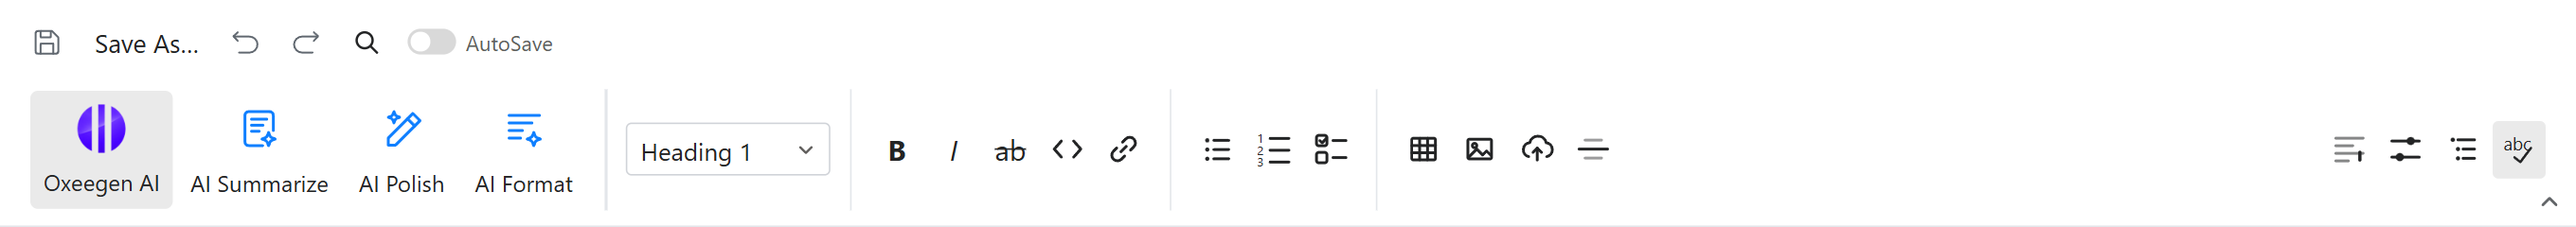
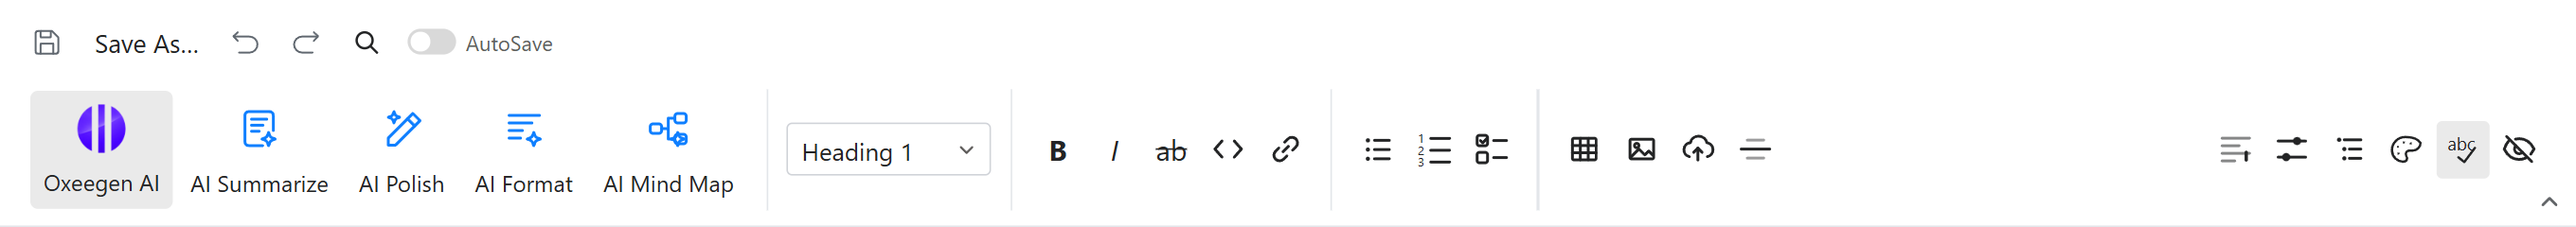
Brand layer for 0.11.727: manual pages, figures, usage request
- Manual (en, fr): Home page gains starred-file groups, .txt/.json and an
  "Ask your knowledge base" section (no Genspark sign-in); Settings page
  lists the new rerank endpoints; AI models page describes custom
  endpoint profiles.
- Figures: Markdown toolbar (AI Mind Map, themes, hide from AI), PDF
  toolbar (Certificate sign), AI panel and Word shortcuts regenerated.
- Oxeegen request test: streams now carry stream_options.include_usage
  (the new token usage chips); still no sampling field.

Changed region(s): [[0.25, 0.4958, 0.6875, 0.7292], [0.8438, 0.5833, 1.0, 0.7292], [0.2188, 0.7583, 0.375, 0.8458]]

diff --git a/packages/ai-provider/tests/oxeegen.test.ts b/packages/ai-provider/tests/oxeegen.test.ts
@@ -117,7 +117,9 @@ describe('request bodies: the server configuration decides', () => {
       expect(body).not.toHaveProperty('reasoning_effort')
       expect(body.model).toBe('Oxee-max')
     }
-    expect(Object.keys(bodies[0]!).sort()).toEqual(['messages', 'model', 'stream', 'tools'])
+    // streams ask for the token count only (the usage chips); no sampling field
+    expect(Object.keys(bodies[0]!).sort()).toEqual(['messages', 'model', 'stream', 'stream_options', 'tools'])
+    expect(bodies[0]!.stream_options).toEqual({ include_usage: true })
     expect(Object.keys(bodies[2]!).sort()).toEqual(['messages', 'model'])
   })
 

diff --git a/apps/shell/src/renderer/src/oxee-help/home-screen.fr.md b/apps/shell/src/renderer/src/oxee-help/home-screen.fr.md
@@ -7,13 +7,21 @@ Accueil est la page de démarrage de OxeeOffice : une barre de navigation à gau
 ## Navigation dans la barre latérale
 
 - **Récents** : les fichiers que vous avez ouverts récemment. Chaque ligne est datée — aujourd’hui, hier ou la date.
-- **Favoris** : les fichiers que vous avez mis en favori. Survolez une ligne et cliquez sur l’étoile pour l’ajouter ou le retirer.
-- **Demander à l’IA** : posez une question sur vos fichiers en favori sans les ouvrir. La réponse cite le fichier et le dossier d’où elle vient ; cliquez sur une citation pour ouvrir ce fichier. La conversation n’est pas conservée après la fermeture.
+- **Favoris** : les fichiers que vous avez mis en favori. Survolez une ligne et cliquez sur l’étoile pour l’ajouter ou le retirer. **Déplacer vers un groupe…**, dans le menu ⋯, range les favoris dans des groupes nommés ; la vue Favoris peut filtrer par groupe.
+- **Demander à l’IA** : posez des questions sur vos fichiers en favori et obtenez des réponses qui les citent (voir plus bas).
 - **Dossiers** : les répertoires que vous ajoutez à la barre latérale avec **Ajouter un dossier…**, ou que vous y faites glisser depuis le gestionnaire de fichiers. Chacun devient une racine que vous pouvez ouvrir, dans laquelle créer des sous-dossiers, renommer et retirer ; une racine qui devient indisponible est signalée comme telle et peut être retirée de la liste. **Nouveau dossier** en crée un autre.
 
 Ce manuel s’ouvre depuis **Aide ▸ Guide de l'utilisateur** ou avec **F1**.
 
 Il n’y a pas d’entrée Corbeille ici. Les fichiers supprimés vont dans la corbeille du système, et les restaurer relève de l’OS.
+
+## Interroger votre base de connaissances
+
+- Mettez d’abord des fichiers en favori (tout type qu’OxeeOffice sait lire) ; l’en-tête du panneau les compte, et une base vide vous invite à en ajouter.
+- L’IA cherche et lit vos favoris avec le modèle et les réglages de vos panneaux IA. Les réponses citent les fichiers d’où elles viennent ; cliquez sur une citation pour ouvrir le fichier dans son éditeur.
+- La conversation reste en mémoire seulement : fermer l’application l’efface.
+- La recherche passe par l’index local des fichiers, comme la recherche de l’accueil ; les fichiers disparus sortent discrètement de la base.
+- Les groupes ne servent qu’à ranger la liste des favoris : la base de connaissances couvre toujours tous les favoris.
 
 ## La liste des fichiers
 
@@ -53,6 +61,6 @@ Ce que fait chaque carte :
 - **AI Markdown** (.md) : un document Markdown vierge dans l’éditeur Markdown.
 - **AI HTML** (.html) : une page web vierge dans l’éditeur HTML.
 - **AI PDF** (.pdf) : différent des autres — il crée **immédiatement** un vrai PDF vierge d’une seule page dans le dossier cible et l’ouvre comme un fichier ordinaire (l’éditeur PDF travaille sur de vrais fichiers). Pratique pour annoter, caviarder ou ajouter du texte ; le fichier peut être renommé automatiquement d’après son contenu à la première sauvegarde.
-- **Ouvrir un fichier local** : un sélecteur de fichiers du système pour Word (.docx/.doc), Excel (.xlsx/.xlsm/.xls/.csv/.tsv), PowerPoint (.pptx/.ppt), PDF, Markdown (.md/.markdown) et pages web (.html/.htm). La sélection multiple fonctionne ; chaque fichier obtient son propre onglet.
+- **Ouvrir un fichier local** : un sélecteur de fichiers du système pour Word (.docx/.doc), Excel (.xlsx/.xlsm/.xls/.csv/.tsv), PowerPoint (.pptx/.ppt), PDF, Markdown (.md/.markdown) et pages web (.html/.htm). La sélection multiple fonctionne ; chaque fichier obtient son propre onglet. Les fichiers texte (.txt, .json) s’ouvrent aussi ici, dans la vue source de l’éditeur Markdown.
 
 > Astuce : Fichier ▸ Nouveau dans la barre de menus crée les mêmes types de documents (⌘N/Ctrl+N crée un document texte par défaut) ; faire glisser un fichier dans la fenêtre l’ouvre.

diff --git a/apps/shell/src/renderer/src/oxee-help/home-screen.en.md b/apps/shell/src/renderer/src/oxee-help/home-screen.en.md
@@ -7,13 +7,21 @@ Home is OxeeOffice's start page: a navigation sidebar on the left, file lists an
 ## Sidebar navigation
 
 - **Recent**: files you opened recently. Each row is stamped with when — today, yesterday, or the date.
-- **Starred**: files you starred. Hover a file row and click the star to add or remove it.
-- **Ask AI**: ask a question about your starred files without opening them. The answer cites the file and folder it came from; click a citation to open that file. The conversation is not kept after you quit.
+- **Starred**: files you starred. Hover a file row and click the star to add or remove it. The ⋯ menu's **Move to group** sorts starred files into named groups; the Starred view filters by them.
+- **Ask AI**: ask questions about your starred files and get answers that cite them (see below).
 - **Folders**: directories you add to the sidebar with **Add folder…**, or drag in from the file manager. Each becomes a root you can open, create subfolders in, rename and remove; one that goes offline shows as unavailable and can be taken off the list. **New folder** makes another one.
 
 This manual opens from **Help ▸ User Guide** or with **F1**.
 
 There is no Trash entry here. Deleted files go to the system trash, and restoring one is the OS's business.
+
+## Ask your knowledge base
+
+- Star files first (any type OxeeOffice reads); the panel header counts them, and an empty knowledge base tells you to star something.
+- The AI searches and reads your starred files with the model and settings you use in the AI panels. Answers cite the files they came from; click a citation to open the file in its editor.
+- The conversation lives in memory only — closing the app ends it.
+- Search runs on the local file index, like Home search; files that have disappeared quietly drop out.
+- Groups organise the Starred list only — the knowledge base always spans every starred file.
 
 ## The file list
 
@@ -53,6 +61,6 @@ What each card does:
 - **AI Markdown** (.md): a blank Markdown document in the Markdown editor.
 - **AI HTML** (.html): a blank web page in the HTML editor.
 - **AI PDF** (.pdf): different from the rest — it **immediately** creates a real blank single-page PDF in the target folder and opens it as a regular file (the PDF editor works on real files). Good for annotating, redacting or adding text; the file can be renamed automatically from its content on first save.
-- **Open local files**: a system file picker for Word (.docx/.doc), Excel (.xlsx/.xlsm/.xls/.csv/.tsv), PowerPoint (.pptx/.ppt), PDF, Markdown (.md/.markdown) and web pages (.html/.htm). Multi-select works; each file gets its own tab.
+- **Open local files**: a system file picker for Word (.docx/.doc), Excel (.xlsx/.xlsm/.xls/.csv/.tsv), PowerPoint (.pptx/.ppt), PDF, Markdown (.md/.markdown) and web pages (.html/.htm). Multi-select works; each file gets its own tab. Plain-text files (.txt, .json) open here too — they land in the Markdown editor's source view.
 
 > Tip: File ▸ New in the menu bar creates the same document types (⌘N/Ctrl+N defaults to a text document); dragging a file into the window opens it.

diff --git a/apps/shell/src/renderer/src/oxee-help/ai-models.fr.md b/apps/shell/src/renderer/src/oxee-help/ai-models.fr.md
@@ -9,7 +9,7 @@ Les modèles et les clés se configurent dans les Paramètres (le bouton **Param
 - **Oxeegen** est le fournisseur par défaut. Dans **Paramètres ▸ Modèle IA**, choisissez votre région avec **US** ou **EU** (chaque région a ses propres clés), collez votre clé API Oxeegen, et le point de terminaison se remplit tout seul. Les modèles sont **Oxee Max** (par défaut), **Pro**, **Flash** et **Instant**.
 - **Changez de modèle à tout moment** avec la pastille de modèle en bas de chaque panneau IA ; le choix s’applique dans tous les éditeurs ouverts. **Gérer les modèles…**, en fin de liste, ouvre cette page des Paramètres.
 - Les modèles Oxee utilisent leurs propres réglages serveur : OxeeOffice n’envoie ni température ni limite de sortie. Les étapes qui exécutent un plan — rédiger les diapositives, vérifier leur mise en page, écrire de longs documents — demandent au modèle de répondre sans sa phase de raisonnement, et prennent quelques secondes.
-- **Points de terminaison personnalisés (BYOK)** : Paramètres ▸ IA prend une URL de base et une clé API par protocole — compatible OpenAI, Anthropic, Gemini, DeepSeek, DashScope (qwen) et plus. Les clés sont stockées dans le fichier de paramètres de l'application sur cet ordinateur et envoyées uniquement dans les en-têtes de requête.
+- **Points de terminaison personnalisés (BYOK)** : Paramètres ▸ IA prend une URL de base et une clé API par protocole — compatible OpenAI, Anthropic, Gemini, DeepSeek, DashScope (qwen) et plus. Les clés sont stockées dans le fichier de paramètres de l'application sur cet ordinateur et envoyées uniquement dans les en-têtes de requête. Atlas Cloud fait partie des protocoles intégrés. Un point de terminaison personnalisé peut aussi fixer son protocole, des options de compatibilité (sans température, renvoi du raisonnement, `max_completion_tokens`, vision), des en-têtes supplémentaires, un délai d’inactivité, une clé lue dans une variable d’environnement et une liste de modèles déclarés.
 - Un fournisseur différent peut être choisi par capacité dans **Paramètres ▸ Médias IA et recherche** : la recherche web et d’images passe par **Brave** (collez une clé API Brave dans l’entrée de recherche Oxeegen), la génération d’images par **OpenAI** `gpt-image-2.5-flare` avec votre clé OpenAI, et l’analyse d’images et de vidéos par les modèles Oxee.
 - **Tester la connexion** : vérifie que le point de terminaison est joignable et que le modèle est visible avant d’enregistrer.
 - Les URL de base peuvent porter un chemin et une chaîne de requête (style passerelle) ; les chemins de point de terminaison sont concaténés correctement.

diff --git a/apps/shell/src/renderer/src/oxee-help/ai-models.en.md b/apps/shell/src/renderer/src/oxee-help/ai-models.en.md
@@ -9,7 +9,7 @@ Models and keys are configured in Settings (the **Settings** button at the botto
 - **Oxeegen** is the default provider. In **Settings ▸ AI Model**, pick your region with **US** or **EU** (each region has its own keys), paste your Oxeegen API key, and the endpoint is filled in for you. The models are **Oxee Max** (default), **Pro**, **Flash** and **Instant**.
 - **Switch model at any time** from the model chip at the bottom of any AI panel; the choice applies in every open editor. **Manage models…** at the end of its list opens this page of Settings.
 - Oxee models run with their own server settings: OxeeOffice sends no temperature or output limit. Steps that carry out a plan — writing slides, checking slide layout, writing long documents — ask the model to answer without its reasoning pass, so they take seconds.
-- **Custom endpoints (BYOK)**: Settings ▸ AI takes a base URL and API key per protocol — OpenAI-compatible, Anthropic, Gemini, DeepSeek, DashScope (qwen) and more. Keys are stored in the app's settings file on this machine and sent only in request headers.
+- **Custom endpoints (BYOK)**: Settings ▸ AI takes a base URL and API key per protocol — OpenAI-compatible, Anthropic, Gemini, DeepSeek, DashScope (qwen) and more. Keys are stored in the app's settings file on this machine and sent only in request headers. Atlas Cloud is among the built-in protocols. A custom endpoint can also set its protocol, compatibility switches (omit temperature, echo reasoning, `max_completion_tokens`, vision), extra headers, an idle timeout, a key read from an environment variable, and a list of model declarations.
 - A different provider can be picked per capability under **Settings ▸ AI Media & Search**: web and image search run on **Brave** (paste a Brave API key into the Oxeegen search entry), image generation on **OpenAI** `gpt-image-2.5-flare` with your OpenAI key, and image and video analysis on Oxee models.
 - **Connection test**: verify endpoint reachability and model visibility before saving.
 - Base URLs may carry a path and query string (gateway-style); endpoint paths are appended correctly.

diff --git a/apps/shell/src/renderer/src/oxee-help/settings-integrations.fr.md b/apps/shell/src/renderer/src/oxee-help/settings-integrations.fr.md
@@ -31,7 +31,7 @@ OxeeOffice n’envoie aucune statistique d’utilisation : Général n’a donc 
 Ce ne sont pas des interrupteurs : chaque capacité choisit le fournisseur qui la sert, et la clé et l'URL de base d'un fournisseur sont saisies une seule fois et partagées :
 
 - **Recherche web**, **Génération d'images**, **Analyse d'images** et **Analyse vidéo**, chacune avec un fournisseur, un modèle, une clé et une URL de base.
-- **Recherche de fichiers locaux** s'exécute sur cette machine. Dessous se trouve le **Reclassement Jev**, **désactivé par défaut**. Activez-le et les extraits des 20 meilleurs résultats locaux — jusqu'à 1 200 caractères par document, plus les noms de fichiers et de dossiers — sont envoyés au modèle Jev de TypeSafe pour être réordonnés par pertinence. Désactivé, rien ne quitte l'appareil.
+- **Recherche de fichiers locaux** s'exécute sur cette machine. Dessous se trouve le **Reclassement Jev**, **désactivé par défaut**. Activez-le et les extraits des 20 meilleurs résultats locaux — jusqu'à 1 200 caractères par document, plus les noms de fichiers et de dossiers — partent vers le point de terminaison choisi sous **Point de terminaison Jev** (Jev via OpenRouter ou l’API TypeSafe, Perplexity, Liquid AI d1, Cloudflare, un moteur local ou une URL personnalisée) pour être réordonnés par pertinence. Désactivé, rien ne quitte l'appareil.
 
 ## À propos
 

diff --git a/apps/shell/src/renderer/src/oxee-help/settings-integrations.en.md b/apps/shell/src/renderer/src/oxee-help/settings-integrations.en.md
@@ -31,7 +31,7 @@ OxeeOffice sends no usage statistics, so General has no switch for them.
 Not switches — each capability picks the vendor that serves it, and a vendor's key and base URL are entered once and shared:
 
 - **Web search**, **Image generation**, **Image analysis** and **Video analysis**, each with a provider, a model, a key and a base URL.
-- **Local file search** runs on this machine. Under it, **Jev search reranking** is **off by default**. Switch it on and the excerpts of the top 20 local hits — up to 1,200 characters of each document, plus the file and folder names — are sent to TypeSafe's Jev model to be reordered by relevance. With it off, nothing leaves the device.
+- **Local file search** runs on this machine. Under it, **Jev search reranking** is **off by default**. Switch it on and the excerpts of the top 20 local hits — up to 1,200 characters of each document, plus the file and folder names — go to the endpoint you pick under **Jev endpoint** (Jev via OpenRouter or the TypeSafe API, Perplexity, Liquid AI d1, Cloudflare, a local engine, or a custom URL) to be reordered by relevance. With it off, nothing leaves the device.
 
 ## About
 
